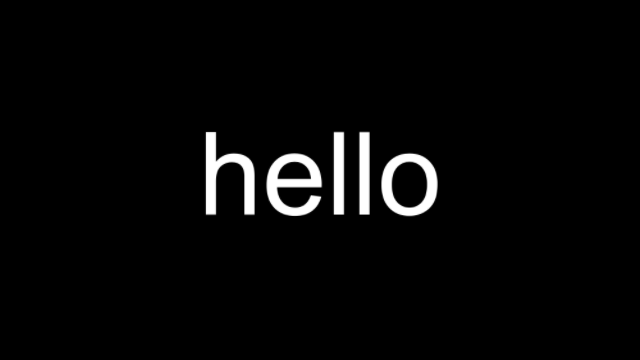
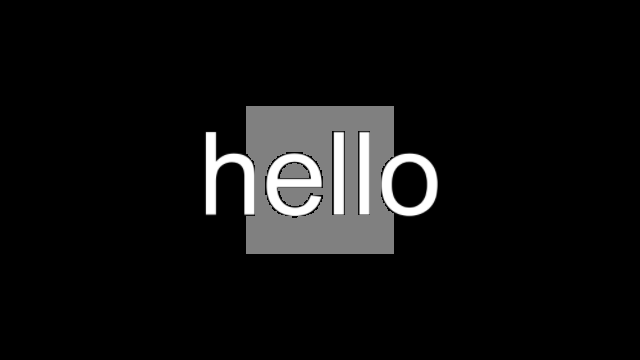
changement

Changed region(s): [[0.375, 0.275, 0.625, 0.7028]]

diff --git a/js/patch.js b/js/patch.js
@@ -42,4 +42,4 @@ window.vec3 = glMatrix.vec3;
 window.vec4 = glMatrix.vec4;
 
 var CABLES = CABLES || {}; CABLES.build = {"timestamp":1642088436991,"created":"2022-01-13T15:40:36.991Z","git":{"branch":"master","commit":"c537af9dc816369192a4c7405dc4d949add1219c","date":null,"message":null}};
-if(!CABLES.exportedPatches)CABLES.exportedPatches={};CABLES.exportedPatches["7AOH-W"]={settings:{opExample:[],licence:"none",isPublic:false},ops:[{objName:"Ops.Gl.MainLoop",id:"0",uiAttribs:{subPatch:0},portsIn:[{name:"FPS Limit",value:0},{name:"Reduce FPS not focussed",value:true},{name:"Reduce FPS loading",value:0},{name:"Clear",value:true},{name:"ClearAlpha",value:true},{name:"Fullscreen Button",value:false},{name:"Active",value:true},{name:"Hires Displays",value:false}],portsOut:[{name:"trigger",links:[{portIn:"Render",portOut:"trigger",objIn:"1",objOut:"0"}]},{name:"width",value:640},{name:"height",value:360}]},{objName:"Ops.Gl.Meshes.TextMesh_v2",id:"1",uiAttribs:{subPatch:0},portsIn:[{name:"Render"},{name:"Text",value:"hello"},{name:"Scale",value:1},{name:"Font",value:"Arial"},{name:"align index",value:1},{name:"align",value:"center"},{name:"vertical align index",value:1},{name:"vertical align",value:"Middle"},{name:"Line Height",value:1},{name:"Letter Spacing",value:0},{name:"filter index",value:2},{name:"filter",value:"mipmap"},{name:"Anisotropic index",value:0},{name:"Anisotropic",value:0},{name:"Texture Color",value:0},{name:"Texture Mask",value:0},{name:"r",value:1},{name:"g",value:1},{name:"b",value:1},{name:"a",value:1}],portsOut:[{name:"Next",value:0},{name:"texture"},{name:"Total Lines",value:1},{name:"Width",value:.7545689174107144},{name:"Font Available",value:0}]}],users:[],userOps:[],tags:[],_id:"61fbd2bafa64cf2d63796897",name:"new project",userId:"61f8f81ca0b3c4211425436c",created:"2022-02-03T13:03:54.311Z",updated:"2022-02-03T13:09:08.272Z",log:[],__v:1,shortId:"7AOH-W",buildInfo:{ui:{timestamp:1642093519649,created:"2022-01-13T17:05:19.649Z",git:{branch:"master",commit:"4915a0a526ca85fa926ed6750446328f8fc1e649",date:"2021-11-30T10:48:51.000Z",message:"icons"}},host:"cables.gl"},opsHash:"236f363fd28201cbfb391b2ab2801d6705411562",ui:{timeLineLength:20,bookmarks:[],viewBoxesGl:{0:{x:-314.8462435561811,y:-36.49987041884958,z:399.95335078585146}},renderer:{w:640,h:360,s:1}},updatedByUser:"diocro",exports:1};if(!CABLES.exportedPatch){CABLES.exportedPatch=CABLES.exportedPatches["7AOH-W"]}"use strict";var CABLES=CABLES||{};CABLES.OPS=CABLES.OPS||{};var Ops=Ops||{};Ops.Gl=Ops.Gl||{};Ops.Gl.Meshes=Ops.Gl.Meshes||{};Ops.Gl.MainLoop=function(){CABLES.Op.apply(this,arguments);const a=this;const e={};const t=a.inValue("FPS Limit",0);const n=a.outTrigger("trigger");const r=a.outValue("width");const i=a.outValue("height");const s=a.inValueBool("Reduce FPS not focussed",true);const o=a.inValueBool("Reduce FPS loading");const l=a.inValueBool("Clear",true);const c=a.inValueBool("ClearAlpha",true);const u=a.inValueBool("Fullscreen Button",false);const f=a.inValueBool("Active",true);const d=a.inValueBool("Hires Displays",false);a.onAnimFrame=S;d.onChange=function(){if(d.get())a.patch.cgl.pixelDensity=window.devicePixelRatio;else a.patch.cgl.pixelDensity=1;a.patch.cgl.updateSize();if(CABLES.UI)gui.setLayout()};f.onChange=function(){a.patch.removeOnAnimFrame(a);if(f.get()){a.setUiAttrib({extendTitle:""});a.onAnimFrame=S;a.patch.addOnAnimFrame(a);a.log("adding again!")}else{a.setUiAttrib({extendTitle:"Inactive"})}};const g=a.patch.cgl;let p=0;let h=0;if(!a.patch.cgl)a.uiAttr({error:"No webgl cgl context"});const x=vec3.create();vec3.set(x,0,0,0);const v=vec3.create();vec3.set(v,0,0,-2);u.onChange=T;setTimeout(T,100);let m=null;let C=true;let L=true;window.addEventListener("blur",()=>{C=false});window.addEventListener("focus",()=>{C=true});document.addEventListener("visibilitychange",()=>{L=!document.hidden});function M(){if(o.get()&&a.patch.loading.getProgress()<1)return 5;if(s.get()){if(!L)return 10;if(!C)return 30}return t.get()}function T(){function e(){if(m)m.style.display="block"}function t(){if(m)m.style.display="none"}a.patch.cgl.canvas.addEventListener("mouseleave",t);a.patch.cgl.canvas.addEventListener("mouseenter",e);if(u.get()){if(!m){m=document.createElement("div");const n=a.patch.cgl.canvas.parentElement;if(n)n.appendChild(m);m.addEventListener("mouseenter",e);m.addEventListener("click",function(e){if(CABLES.UI&&!e.shiftKey)gui.cycleFullscreen();else g.fullScreen()})}m.style.padding="10px";m.style.position="absolute";m.style.right="5px";m.style.top="5px";m.style.width="20px";m.style.height="20px";m.style.cursor="pointer";m.style["border-radius"]="40px";m.style.background="#444";m.style["z-index"]="9999";m.style.display="none";m.innerHTML='<svg xmlns="http://www.w3.org/2000/svg" xmlns:xlink="http://www.w3.org/1999/xlink" version="1.1" id="Capa_1" x="0px" y="0px" viewBox="0 0 490 490" style="width:20px;height:20px;" xml:space="preserve" width="512px" height="512px"><g><path d="M173.792,301.792L21.333,454.251v-80.917c0-5.891-4.776-10.667-10.667-10.667C4.776,362.667,0,367.442,0,373.333V480     c0,5.891,4.776,10.667,10.667,10.667h106.667c5.891,0,10.667-4.776,10.667-10.667s-4.776-10.667-10.667-10.667H36.416     l152.459-152.459c4.093-4.237,3.975-10.99-0.262-15.083C184.479,297.799,177.926,297.799,173.792,301.792z" fill="#FFFFFF"/><path d="M480,0H373.333c-5.891,0-10.667,4.776-10.667,10.667c0,5.891,4.776,10.667,10.667,10.667h80.917L301.792,173.792     c-4.237,4.093-4.354,10.845-0.262,15.083c4.093,4.237,10.845,4.354,15.083,0.262c0.089-0.086,0.176-0.173,0.262-0.262     L469.333,36.416v80.917c0,5.891,4.776,10.667,10.667,10.667s10.667-4.776,10.667-10.667V10.667C490.667,4.776,485.891,0,480,0z" fill="#FFFFFF"/><path d="M36.416,21.333h80.917c5.891,0,10.667-4.776,10.667-10.667C128,4.776,123.224,0,117.333,0H10.667     C4.776,0,0,4.776,0,10.667v106.667C0,123.224,4.776,128,10.667,128c5.891,0,10.667-4.776,10.667-10.667V36.416l152.459,152.459     c4.237,4.093,10.99,3.975,15.083-0.262c3.992-4.134,3.992-10.687,0-14.82L36.416,21.333z" fill="#FFFFFF"/><path d="M480,362.667c-5.891,0-10.667,4.776-10.667,10.667v80.917L316.875,301.792c-4.237-4.093-10.99-3.976-15.083,0.261     c-3.993,4.134-3.993,10.688,0,14.821l152.459,152.459h-80.917c-5.891,0-10.667,4.776-10.667,10.667s4.776,10.667,10.667,10.667     H480c5.891,0,10.667-4.776,10.667-10.667V373.333C490.667,367.442,485.891,362.667,480,362.667z" fill="#FFFFFF"/></g></svg>'}else{if(m){m.style.display="none";m.remove();m=null}}}a.onDelete=function(){g.gl.clearColor(0,0,0,0);g.gl.clear(g.gl.COLOR_BUFFER_BIT|g.gl.DEPTH_BUFFER_BIT)};function S(e){if(!f.get())return;if(g.aborted||g.canvas.clientWidth===0||g.canvas.clientHeight===0)return;const t=performance.now();a.patch.config.fpsLimit=M();if(g.canvasWidth==-1){g.setCanvas(a.patch.config.glCanvasId);return}if(g.canvasWidth!=r.get()||g.canvasHeight!=i.get()){r.set(g.canvasWidth);i.set(g.canvasHeight)}if(CABLES.now()-h>1e3){CGL.fpsReport=CGL.fpsReport||[];if(a.patch.loading.getProgress()>=1&&h!==0)CGL.fpsReport.push(p);p=0;h=CABLES.now()}CGL.MESH.lastShader=null;CGL.MESH.lastMesh=null;g.renderStart(g,x,v);if(l.get()){g.gl.clearColor(0,0,0,1);g.gl.clear(g.gl.COLOR_BUFFER_BIT|g.gl.DEPTH_BUFFER_BIT)}n.trigger();if(CGL.MESH.lastMesh)CGL.MESH.lastMesh.unBind();if(CGL.Texture.previewTexture){if(!CGL.Texture.texturePreviewer)CGL.Texture.texturePreviewer=new CGL.Texture.texturePreview(g);CGL.Texture.texturePreviewer.render(CGL.Texture.previewTexture)}g.renderEnd(g);if(c.get()){g.gl.clearColor(1,1,1,1);g.gl.colorMask(false,false,false,true);g.gl.clear(g.gl.COLOR_BUFFER_BIT);g.gl.colorMask(true,true,true,true)}if(!g.frameStore.phong)g.frameStore.phong={};p++;a.patch.cgl.profileData.profileMainloopMs=performance.now()-t}};Ops.Gl.MainLoop.prototype=new CABLES.Op;CABLES.OPS["b0472a1d-db16-4ba6-8787-f300fbdc77bb"]={f:Ops.Gl.MainLoop,objName:"Ops.Gl.MainLoop"};Ops.Gl.Meshes.TextMesh_v2=function(){CABLES.Op.apply(this,arguments);const t=this;const e={textmesh_frag:"UNI sampler2D tex;\n#ifdef DO_MULTEX\n    UNI sampler2D texMul;\n#endif\n#ifdef DO_MULTEX_MASK\n    UNI sampler2D texMulMask;\n#endif\nIN vec2 texCoord;\nIN vec2 texPos;\nUNI float r;\nUNI float g;\nUNI float b;\nUNI float a;\n\nvoid main()\n{\n   vec4 col=texture(tex,texCoord);\n   col.a=col.r;\n   col.r*=r;\n   col.g*=g;\n   col.b*=b;\n   col*=a;\n   if(col.a==0.0)discard;\n\n\n    #ifdef DO_MULTEX\n        col*=texture(texMul,texPos);\n    #endif\n\n    #ifdef DO_MULTEX_MASK\n        col*=texture(texMulMask,texPos).r;\n    #endif\n\n\n\n   outColor=col;\n}",textmesh_vert:"UNI sampler2D tex;\nUNI mat4 projMatrix;\nUNI mat4 modelMatrix;\nUNI mat4 viewMatrix;\nUNI float scale;\nIN vec3 vPosition;\nIN vec2 attrTexCoord;\nIN mat4 instMat;\nIN vec2 attrTexOffsets;\nIN vec2 attrTexSize;\nIN vec2 attrTexPos;\nOUT vec2 texPos;\n\nOUT vec2 texCoord;\n\nvoid main()\n{\n   texCoord=(attrTexCoord*(attrTexSize)) + attrTexOffsets;\n   mat4 instMVMat=instMat;\n   instMVMat[3][0]*=scale;\n\n   texPos=attrTexPos;\n\n   vec4 vert=vec4( vPosition.x*(attrTexSize.x/attrTexSize.y)*scale,vPosition.y*scale,vPosition.z*scale, 1. );\n\n   mat4 mvMatrix=viewMatrix * modelMatrix * instMVMat;\n\n   #ifndef BILLBOARD\n       gl_Position = projMatrix * mvMatrix * vert;\n   #endif\n}\n"};const n=t.inTrigger("Render"),m=t.inString("Text","cables"),a=t.inValueFloat("Scale",1),f=t.inString("Font","Arial"),C=t.inValueSelect("align",["left","center","right"],"center"),r=t.inValueSelect("vertical align",["Top","Middle","Bottom"],"Middle"),L=t.inValueFloat("Line Height",1),M=t.inValueFloat("Letter Spacing"),o=t.inSwitch("filter",["nearest","linear","mipmap"],"mipmap"),l=t.inSwitch("Anisotropic",[0,1,2,4,8,16],0),i=t.inTexture("Texture Color"),s=t.inTexture("Texture Mask"),c=t.outTrigger("Next"),T=t.outTexture("texture"),S=t.outNumber("Total Lines",0),A=t.outNumber("Width",0),u=t.outValue("Font Available",0);const E=t.patch.cgl;t.setPortGroup("Masking",[i,s]);const d=1024;let g=false;let p=true;C.onChange=m.onChange=L.onChange=h;function h(){p=true}let x=null;CABLES.OpTextureMeshCanvas={};let v=0;const w=null;let F=null;let B=true;let b=true;l.onChange=o.onChange=()=>{y().texture=null;b=true};s.onChange=i.onChange=function(){P.toggleDefine("DO_MULTEX",i.get());P.toggleDefine("DO_MULTEX_MASK",s.get())};T.set(null);f.onChange=function(){b=true;B=true;O()};t.patch.on("fontLoaded",e=>{if(e==f.get()){b=true;B=true}});function O(){const e=g;try{g=document.fonts.check('20px "'+f.get()+'"')}catch(e){t.error(e)}if(!e&&g){u.set(true);b=true;B=true}if(!g)setTimeout(O,250)}r.onChange=function(){if(r.get()=="Middle")v=0;else if(r.get()=="Top")v=1;else if(r.get()=="Bottom")v=2};function y(){x=""+f.get();if(CABLES.OpTextureMeshCanvas.hasOwnProperty(x))return CABLES.OpTextureMeshCanvas[x];const e=document.createElement("canvas");e.dataset.font=f.get();e.id="texturetext_"+CABLES.generateUUID();e.style.display="none";const t=document.getElementsByTagName("body")[0];t.appendChild(e);const n=e.getContext("2d");CABLES.OpTextureMeshCanvas[x]={ctx:n,canvas:e,chars:{},characters:"",fontSize:320};return CABLES.OpTextureMeshCanvas[x]}t.onDelete=function(){if(x&&CABLES.OpTextureMeshCanvas[x])CABLES.OpTextureMeshCanvas[x].canvas.remove()};var P=new CGL.Shader(E,"TextMesh");P.setSource(e.textmesh_vert,e.textmesh_frag);const G=new CGL.Uniform(P,"t","tex",0);const I=new CGL.Uniform(P,"t","texMul",1);const U=new CGL.Uniform(P,"t","texMulMask",2);const _=new CGL.Uniform(P,"f","scale",a);const N=t.inValueSlider("r",1),H=t.inValueSlider("g",1),R=t.inValueSlider("b",1),V=t.inValueSlider("a",1),D=new CGL.Uniform(P,"f","r",N),k=new CGL.Uniform(P,"f","g",H),z=new CGL.Uniform(P,"f","b",R),W=new CGL.Uniform(P,"f","a",V);N.setUiAttribs({colorPick:true});t.setPortGroup("Display",[a,f]);t.setPortGroup("Alignment",[C,r]);t.setPortGroup("Color",[N,H,R,V]);let j=0;const X=vec3.create();let K=-1;let Z=false;n.onTriggered=function(){if(p){Y();p=false}const e=y();if(e.lastChange!=K){B=true;K=e.lastChange}if(b)J();if(B)Y();if(F&&F.numInstances>0){E.pushBlendMode(CGL.BLEND_NORMAL,true);E.setShader(P);E.setTexture(0,T.get().tex);const t=i.get();if(t)E.setTexture(1,t.tex);const n=s.get();if(n)E.setTexture(2,n.tex);if(v===2)vec3.set(X,0,j,0);else if(v===1)vec3.set(X,0,0,0);else if(v===0)vec3.set(X,0,j/2,0);X[1]-=L.get();E.pushModelMatrix();mat4.translate(E.mMatrix,E.mMatrix,X);if(!Z)F.render(E.getShader());E.popModelMatrix();E.setTexture(0,null);E.setPreviousShader();E.popBlendMode()}c.trigger()};M.onChange=function(){B=true};function Y(){const e=String(m.get()+"");if(!T.get())return;const r=y();if(!r.geom){r.geom=new CGL.Geometry("textmesh");r.geom.vertices=[1,1,0,0,1,0,1,0,0,0,0,0];r.geom.texCoords=new Float32Array([1,1,0,1,1,0,0,0]);r.geom.verticesIndices=[0,1,2,2,1,3]}if(!F)F=new CGL.Mesh(E,r.geom);const i=e.split("\n");S.set(i.length);const s=[];const o=[];const l=[];const c=[];let u=0;b=false;const f=mat4.create();let d=0;for(let a=0;a<i.length;a++){const p=i[a];const h=p.length;let e=0;let t=0;let n=0;for(var g=0;g<h;g++){const x=p.substring(g,g+1);const v=r.chars[String(x)];if(v){n+=v.texCoordWidth/v.texCoordHeight;n+=M.get()}}n-=M.get();j=0;if(C.get()=="left")t=0;else if(C.get()=="right")t=n;else if(C.get()=="center")t=n/2;j=(a+1)*L.get();for(var g=0;g<h;g++){const x=p.substring(g,g+1);const v=r.chars[String(x)];if(!v){b=true;return}else{c.push(e/n*.99+.005,(1-a/(i.length-1))*.99+.005);o.push(v.texCoordX,1-v.texCoordY-v.texCoordHeight);l.push(v.texCoordWidth,v.texCoordHeight);mat4.identity(f);mat4.translate(f,f,[e-t,0-a*L.get(),0]);e+=v.texCoordWidth/v.texCoordHeight+M.get();d=Math.max(d,e-t);s.push(Array.prototype.slice.call(f));u++}}}const t=[].concat.apply([],s);Z=false;if(t.length==0)Z=true;F.numInstances=t.length/16;if(F.numInstances==0){Z=true;return}A.set(d*a.get());F.setAttribute("instMat",new Float32Array(t),16,{instanced:true});F.setAttribute("attrTexOffsets",new Float32Array(o),2,{instanced:true});F.setAttribute("attrTexSize",new Float32Array(l),2,{instanced:true});F.setAttribute("attrTexPos",new Float32Array(c),2,{instanced:true});B=false;if(b)J()}function q(e,t){const n=y();if(!t)n.chars={};const a=n.ctx;a.font=e+"px "+f.get();a.textAlign="left";var r=0,i=0;let s=0;const o=e*1.4;const l={fits:true};for(var i=0;i<n.characters.length;i++){const c=String(n.characters.substring(i,i+1));const u=a.measureText(c).width;if(s+u>=d){r+=o+2;s=0}if(!t){n.chars[c]={str:c,texCoordX:s/d,texCoordY:r/d,texCoordWidth:u/d,texCoordHeight:o/d};a.fillText(c,s,r+e)}s+=u+12}if(r>d-o){l.fits=false}l.spaceLeft=d-r;return l}function J(){let e=CGL.Texture.FILTER_LINEAR;if(o.get()=="nearest")e=CGL.Texture.FILTER_NEAREST;if(o.get()=="mipmap")e=CGL.Texture.FILTER_MIPMAP;const t=y();let n=String(m.get());if(n==null||n==undefined)n="";for(let e=0;e<n.length;e++){const s=n.substring(e,e+1);if(t.characters.indexOf(s)==-1){t.characters+=s;b=true}}const a=t.ctx;t.canvas.width=t.canvas.height=d;if(!t.texture)t.texture=CGL.Texture.createFromImage(E,t.canvas,{filter:e,anisotropic:parseFloat(l.get())});t.texture.setSize(d,d);a.fillStyle="transparent";a.clearRect(0,0,d,d);a.fillStyle="rgba(255,255,255,255)";let r=t.fontSize+40;let i=q(r,true);while(!i.fits){r-=5;i=q(r,true)}q(r,false);a.restore();t.texture.initTexture(t.canvas,e);t.texture.unpackAlpha=true;T.set(t.texture);t.lastChange=CABLES.now();B=true;b=false}};Ops.Gl.Meshes.TextMesh_v2.prototype=new CABLES.Op;CABLES.OPS["2390f6b3-2122-412e-8c8d-5c2f574e8bd1"]={f:Ops.Gl.Meshes.TextMesh_v2,objName:"Ops.Gl.Meshes.TextMesh_v2"};window.addEventListener("load",function(e){CABLES.jsLoaded=new Event("CABLES.jsLoaded");document.dispatchEvent(CABLES.jsLoaded)});
+if(!CABLES.exportedPatches)CABLES.exportedPatches={};CABLES.exportedPatches["7AOH-W"]={settings:{opExample:[],licence:"none",isPublic:false},ops:[{objName:"Ops.Gl.MainLoop",id:"0",uiAttribs:{subPatch:0},portsIn:[{name:"FPS Limit",value:0},{name:"Reduce FPS not focussed",value:true},{name:"Reduce FPS loading",value:false},{name:"Clear",value:true},{name:"ClearAlpha",value:true},{name:"Fullscreen Button",value:false},{name:"Active",value:true},{name:"Hires Displays",value:false}],portsOut:[{name:"trigger",links:[{portIn:"Render",portOut:"trigger",objIn:"3",objOut:"0"},{portIn:"render",portOut:"trigger",objIn:"2",objOut:"0"}]},{name:"width",value:640},{name:"height",value:360}]},{objName:"Ops.Gl.Meshes.Cube_v2",id:"1",uiAttribs:{subPatch:0},portsIn:[{name:"Render"},{name:"Render Mesh",value:true},{name:"Width",value:1},{name:"Length",value:1},{name:"Height",value:1},{name:"Center",value:true},{name:"Mapping index",value:0},{name:"Mapping",value:"Side"},{name:"Bias",value:0},{name:"Flip X",value:true},{name:"Top",value:true},{name:"Bottom",value:true},{name:"Left",value:true},{name:"Right",value:true},{name:"Front",value:true},{name:"Back",value:true}],portsOut:[{name:"Next",value:0},{name:"geometry"}]},{objName:"Ops.Gl.Matrix.Translate",id:"2",uiAttribs:{subPatch:0},portsIn:[{name:"render"},{name:"x",value:0},{name:"y",value:0},{name:"z",value:-.68}],portsOut:[{name:"trigger",links:[{portIn:"Render",portOut:"trigger",objIn:"1",objOut:"2"}]}]},{objName:"Ops.Gl.Meshes.TextMesh_v2",id:"3",uiAttribs:{subPatch:0},portsIn:[{name:"Render"},{name:"Text",value:"hello"},{name:"Scale",value:1},{name:"Font",value:"Arial"},{name:"align index",value:1},{name:"align",value:"center"},{name:"vertical align index",value:1},{name:"vertical align",value:"Middle"},{name:"Line Height",value:1},{name:"Letter Spacing",value:0},{name:"filter index",value:2},{name:"filter",value:"mipmap"},{name:"Anisotropic index",value:0},{name:"Anisotropic",value:0},{name:"Texture Color",value:0},{name:"Texture Mask",value:0},{name:"r",value:1},{name:"g",value:1},{name:"b",value:1},{name:"a",value:1}],portsOut:[{name:"Next",value:0},{name:"texture"},{name:"Total Lines",value:1},{name:"Width",value:.7545689174107144},{name:"Font Available",value:0}]}],users:[],userOps:[],tags:[],_id:"61fbd2bafa64cf2d63796897",name:"new project",userId:"61f8f81ca0b3c4211425436c",created:"2022-02-03T13:03:54.311Z",updated:"2022-02-03T14:26:38.778Z",log:[],__v:4,shortId:"7AOH-W",buildInfo:{ui:{timestamp:1642093519649,created:"2022-01-13T17:05:19.649Z",git:{branch:"master",commit:"4915a0a526ca85fa926ed6750446328f8fc1e649",date:"2021-11-30T10:48:51.000Z",message:"icons"}},host:"cables.gl"},opsHash:"53f6c07cac8e8de7c71d01cfa0ecdcd9c0403fe7",ui:{timeLineLength:20,bookmarks:[],viewBoxesGl:{0:{x:-547,y:-266.4797507788162,z:400}},renderer:{w:640,h:360,s:1}},updatedByUser:"diocro",deployments:{lastDeployment:{date:1643893786286,service:"download"}},exports:2,views:0,cachedUsername:"diocro",statsAdmin:{filenameScreenshots:["_screenshots/screenshot.png","_screenshots/screenshot_1643893748513.png","_screenshots/screenshot_1643895329660.png","_screenshots/screenshot_converted.jpg","_screenshots/screenshot_converted.webp"],filenameExports:["_exports/cables_new_project1.zip"],filenameAssets:["LTe50252.ttf"],hasOldScreenshots:false,hasOldExports:false,sizeScreenshots:32.228515625,sizeExports:97.8193359375,sizeAssets:60.625}};if(!CABLES.exportedPatch){CABLES.exportedPatch=CABLES.exportedPatches["7AOH-W"]}"use strict";var CABLES=CABLES||{};CABLES.OPS=CABLES.OPS||{};var Ops=Ops||{};Ops.Gl=Ops.Gl||{};Ops.Gl.Matrix=Ops.Gl.Matrix||{};Ops.Gl.Meshes=Ops.Gl.Meshes||{};Ops.Gl.MainLoop=function(){CABLES.Op.apply(this,arguments);const a=this;const e={};const t=a.inValue("FPS Limit",0);const n=a.outTrigger("trigger");const r=a.outValue("width");const s=a.outValue("height");const i=a.inValueBool("Reduce FPS not focussed",true);const o=a.inValueBool("Reduce FPS loading");const l=a.inValueBool("Clear",true);const c=a.inValueBool("ClearAlpha",true);const u=a.inValueBool("Fullscreen Button",false);const g=a.inValueBool("Active",true);const d=a.inValueBool("Hires Displays",false);a.onAnimFrame=S;d.onChange=function(){if(d.get())a.patch.cgl.pixelDensity=window.devicePixelRatio;else a.patch.cgl.pixelDensity=1;a.patch.cgl.updateSize();if(CABLES.UI)gui.setLayout()};g.onChange=function(){a.patch.removeOnAnimFrame(a);if(g.get()){a.setUiAttrib({extendTitle:""});a.onAnimFrame=S;a.patch.addOnAnimFrame(a);a.log("adding again!")}else{a.setUiAttrib({extendTitle:"Inactive"})}};const p=a.patch.cgl;let f=0;let h=0;if(!a.patch.cgl)a.uiAttr({error:"No webgl cgl context"});const x=vec3.create();vec3.set(x,0,0,0);const m=vec3.create();vec3.set(m,0,0,-2);u.onChange=T;setTimeout(T,100);let v=null;let C=true;let L=true;window.addEventListener("blur",()=>{C=false});window.addEventListener("focus",()=>{C=true});document.addEventListener("visibilitychange",()=>{L=!document.hidden});function M(){if(o.get()&&a.patch.loading.getProgress()<1)return 5;if(i.get()){if(!L)return 10;if(!C)return 30}return t.get()}function T(){function e(){if(v)v.style.display="block"}function t(){if(v)v.style.display="none"}a.patch.cgl.canvas.addEventListener("mouseleave",t);a.patch.cgl.canvas.addEventListener("mouseenter",e);if(u.get()){if(!v){v=document.createElement("div");const n=a.patch.cgl.canvas.parentElement;if(n)n.appendChild(v);v.addEventListener("mouseenter",e);v.addEventListener("click",function(e){if(CABLES.UI&&!e.shiftKey)gui.cycleFullscreen();else p.fullScreen()})}v.style.padding="10px";v.style.position="absolute";v.style.right="5px";v.style.top="5px";v.style.width="20px";v.style.height="20px";v.style.cursor="pointer";v.style["border-radius"]="40px";v.style.background="#444";v.style["z-index"]="9999";v.style.display="none";v.innerHTML='<svg xmlns="http://www.w3.org/2000/svg" xmlns:xlink="http://www.w3.org/1999/xlink" version="1.1" id="Capa_1" x="0px" y="0px" viewBox="0 0 490 490" style="width:20px;height:20px;" xml:space="preserve" width="512px" height="512px"><g><path d="M173.792,301.792L21.333,454.251v-80.917c0-5.891-4.776-10.667-10.667-10.667C4.776,362.667,0,367.442,0,373.333V480     c0,5.891,4.776,10.667,10.667,10.667h106.667c5.891,0,10.667-4.776,10.667-10.667s-4.776-10.667-10.667-10.667H36.416     l152.459-152.459c4.093-4.237,3.975-10.99-0.262-15.083C184.479,297.799,177.926,297.799,173.792,301.792z" fill="#FFFFFF"/><path d="M480,0H373.333c-5.891,0-10.667,4.776-10.667,10.667c0,5.891,4.776,10.667,10.667,10.667h80.917L301.792,173.792     c-4.237,4.093-4.354,10.845-0.262,15.083c4.093,4.237,10.845,4.354,15.083,0.262c0.089-0.086,0.176-0.173,0.262-0.262     L469.333,36.416v80.917c0,5.891,4.776,10.667,10.667,10.667s10.667-4.776,10.667-10.667V10.667C490.667,4.776,485.891,0,480,0z" fill="#FFFFFF"/><path d="M36.416,21.333h80.917c5.891,0,10.667-4.776,10.667-10.667C128,4.776,123.224,0,117.333,0H10.667     C4.776,0,0,4.776,0,10.667v106.667C0,123.224,4.776,128,10.667,128c5.891,0,10.667-4.776,10.667-10.667V36.416l152.459,152.459     c4.237,4.093,10.99,3.975,15.083-0.262c3.992-4.134,3.992-10.687,0-14.82L36.416,21.333z" fill="#FFFFFF"/><path d="M480,362.667c-5.891,0-10.667,4.776-10.667,10.667v80.917L316.875,301.792c-4.237-4.093-10.99-3.976-15.083,0.261     c-3.993,4.134-3.993,10.688,0,14.821l152.459,152.459h-80.917c-5.891,0-10.667,4.776-10.667,10.667s4.776,10.667,10.667,10.667     H480c5.891,0,10.667-4.776,10.667-10.667V373.333C490.667,367.442,485.891,362.667,480,362.667z" fill="#FFFFFF"/></g></svg>'}else{if(v){v.style.display="none";v.remove();v=null}}}a.onDelete=function(){p.gl.clearColor(0,0,0,0);p.gl.clear(p.gl.COLOR_BUFFER_BIT|p.gl.DEPTH_BUFFER_BIT)};function S(e){if(!g.get())return;if(p.aborted||p.canvas.clientWidth===0||p.canvas.clientHeight===0)return;const t=performance.now();a.patch.config.fpsLimit=M();if(p.canvasWidth==-1){p.setCanvas(a.patch.config.glCanvasId);return}if(p.canvasWidth!=r.get()||p.canvasHeight!=s.get()){r.set(p.canvasWidth);s.set(p.canvasHeight)}if(CABLES.now()-h>1e3){CGL.fpsReport=CGL.fpsReport||[];if(a.patch.loading.getProgress()>=1&&h!==0)CGL.fpsReport.push(f);f=0;h=CABLES.now()}CGL.MESH.lastShader=null;CGL.MESH.lastMesh=null;p.renderStart(p,x,m);if(l.get()){p.gl.clearColor(0,0,0,1);p.gl.clear(p.gl.COLOR_BUFFER_BIT|p.gl.DEPTH_BUFFER_BIT)}n.trigger();if(CGL.MESH.lastMesh)CGL.MESH.lastMesh.unBind();if(CGL.Texture.previewTexture){if(!CGL.Texture.texturePreviewer)CGL.Texture.texturePreviewer=new CGL.Texture.texturePreview(p);CGL.Texture.texturePreviewer.render(CGL.Texture.previewTexture)}p.renderEnd(p);if(c.get()){p.gl.clearColor(1,1,1,1);p.gl.colorMask(false,false,false,true);p.gl.clear(p.gl.COLOR_BUFFER_BIT);p.gl.colorMask(true,true,true,true)}if(!p.frameStore.phong)p.frameStore.phong={};f++;a.patch.cgl.profileData.profileMainloopMs=performance.now()-t}};Ops.Gl.MainLoop.prototype=new CABLES.Op;CABLES.OPS["b0472a1d-db16-4ba6-8787-f300fbdc77bb"]={f:Ops.Gl.MainLoop,objName:"Ops.Gl.MainLoop"};Ops.Gl.Meshes.Cube_v2=function(){CABLES.Op.apply(this,arguments);const e=this;const t={};const n=e.inTrigger("Render"),a=e.inValueBool("Render Mesh",true),i=e.inValue("Width",1),o=e.inValue("Length",1),l=e.inValue("Height",1),c=e.inValueBool("Center",true),u=e.inSwitch("Mapping",["Side","Cube +-"],"Side"),d=e.inValue("Bias",0),p=e.inValueBool("Flip X",true),g=e.inValueBool("Top",true),f=e.inValueBool("Bottom",true),h=e.inValueBool("Left",true),x=e.inValueBool("Right",true),m=e.inValueBool("Front",true),v=e.inValueBool("Back",true),r=e.outTrigger("Next"),C=e.outObject("geometry",null,"geometry");const L=e.patch.cgl;e.toWorkPortsNeedToBeLinked(n);e.setPortGroup("Mapping",[u,d,p]);e.setPortGroup("Geometry",[i,l,o,c]);e.setPortGroup("Sides",[g,f,h,x,m,v]);let M=null,T=null,S=true,A=true;d.onChange=p.onChange=g.onChange=f.onChange=h.onChange=x.onChange=m.onChange=v.onChange=u.onChange=i.onChange=l.onChange=o.onChange=c.onChange=s;function s(){A=true}n.onLinkChanged=function(){if(!n.isLinked()){C.set(null);return}b()};n.onTriggered=function(){if(A)b();if(a.get()&&T&&S)T.render(L.getShader());r.trigger()};e.preRender=function(){b();T.render(L.getShader())};function b(){if(!M)M=new CGL.Geometry("cubemesh");M.clear();let e=i.get();let t=-1*i.get();let n=l.get();let a=-1*l.get();let r=o.get();let s=-1*o.get();if(!c.get()){t=0;a=0;s=0}else{e*=.5;t*=.5;n*=.5;a*=.5;r*=.5;s*=.5}if(u.get()=="Side")O(M,e,n,r,t,a,s);else B(M,e,n,r,t,a,s);M.verticesIndices=[];if(g.get())M.verticesIndices.push(8,9,10,8,10,11);if(f.get())M.verticesIndices.push(12,13,14,12,14,15);if(h.get())M.verticesIndices.push(20,21,22,20,22,23);if(x.get())M.verticesIndices.push(16,17,18,16,18,19);if(v.get())M.verticesIndices.push(4,5,6,4,6,7);if(m.get())M.verticesIndices.push(0,1,2,0,2,3);if(M.verticesIndices.length===0)S=false;else S=true;if(T)T.dispose();T=new CGL.Mesh(L,M);C.set(null);C.set(M);A=false}e.onDelete=function(){if(T)T.dispose()};function O(e,t,n,a,r,s,i){e.vertices=[r,s,a,t,s,a,t,n,a,r,n,a,r,s,i,r,n,i,t,n,i,t,s,i,r,n,i,r,n,a,t,n,a,t,n,i,r,s,i,t,s,i,t,s,a,r,s,a,t,s,i,t,n,i,t,n,a,t,s,a,r,s,i,r,s,a,r,n,a,r,n,i];const o=d.get();let l=1;let c=0;if(p.get()){l=0;c=1}e.setTexCoords([c+o,1-o,l-o,1-o,l-o,0+o,c+o,0+o,l-o,1-o,l-o,0+o,c+o,0+o,c+o,1-o,c+o,0+o,c+o,1-o,l-o,1-o,l-o,0+o,l-o,0+o,c+o,0+o,c+o,1-o,l-o,1-o,l-o,1-o,l-o,0+o,c+o,0+o,c+o,1-o,c+o,1-o,l-o,1-o,l-o,0+o,c+o,0+o]);e.vertexNormals=new Float32Array([0,0,1,0,0,1,0,0,1,0,0,1,0,0,-1,0,0,-1,0,0,-1,0,0,-1,0,1,0,0,1,0,0,1,0,0,1,0,0,-1,0,0,-1,0,0,-1,0,0,-1,0,1,0,0,1,0,0,1,0,0,1,0,0,-1,0,0,-1,0,0,-1,0,0,-1,0,0]);e.tangents=new Float32Array([-1,0,0,-1,0,0,-1,0,0,-1,0,0,1,0,0,1,0,0,1,0,0,1,0,0,1,0,0,1,0,0,1,0,0,1,0,0,-1,0,0,-1,0,0,-1,0,0,-1,0,0,0,0,-1,0,0,-1,0,0,-1,0,0,-1,0,0,1,0,0,1,0,0,1,0,0,1]);e.biTangents=new Float32Array([0,-1,0,0,-1,0,0,-1,0,0,-1,0,0,1,0,0,1,0,0,1,0,0,1,0,0,0,-1,0,0,-1,0,0,-1,0,0,-1,0,0,1,0,0,1,0,0,1,0,0,1,0,1,0,0,1,0,0,1,0,0,1,0,0,1,0,0,1,0,0,1,0,0,1,0])}function B(e,t,n,a,r,s,i){e.vertices=[r,s,a,t,s,a,t,n,a,r,n,a,r,s,i,r,n,i,t,n,i,t,s,i,r,n,i,r,n,a,t,n,a,t,n,i,r,s,i,t,s,i,t,s,a,r,s,a,t,s,i,t,n,i,t,n,a,t,s,a,r,s,i,r,s,a,r,n,a,r,n,i];const o=.25;const l=1/3;const c=d.get();let u=0;if(p.get())u=1;const g=[];g.push(u+o+c,l*2-c,u+o*2-c,l*2-c,u+o*2-c,l+c,u+o+c,l+c,u+o*4-c,l*2-c,u+o*4-c,l+c,u+o*3+c,l+c,u+o*3+c,l*2-c);if(p.get())g.push(o+c,0-c,o*2-c,0-c,o*2-c,l*1+c,o+c,l*1+c,o+c,l*3+c,o+c,l*2-c,o*2-c,l*2-c,o*2-c,l*3+c);else g.push(o+c,0+c,o+c,l*1-c,o*2-c,l*1-c,o*2-c,0+c,o+c,l*3-c,o*2-c,l*3-c,o*2-c,l*2+c,o+c,l*2+c);g.push(u+o*3-c,1-l-c,u+o*3-c,1-l*2+c,u+o*2+c,1-l*2+c,u+o*2+c,1-l-c,u+o*0+c,1-l-c,u+o*1-c,1-l-c,u+o*1-c,1-l*2+c,u+o*0+c,1-l*2+c);e.setTexCoords(g);e.vertexNormals=[0,0,1,0,0,1,0,0,1,0,0,1,0,0,-1,0,0,-1,0,0,-1,0,0,-1,0,1,0,0,1,0,0,1,0,0,1,0,0,-1,0,0,-1,0,0,-1,0,0,-1,0,1,0,0,1,0,0,1,0,0,1,0,0,-1,0,0,-1,0,0,-1,0,0,-1,0,0];e.tangents=new Float32Array([-1,0,0,-1,0,0,-1,0,0,-1,0,0,1,0,0,1,0,0,1,0,0,1,0,0,1,0,0,1,0,0,1,0,0,1,0,0,-1,0,0,-1,0,0,-1,0,0,-1,0,0,0,0,-1,0,0,-1,0,0,-1,0,0,-1,0,0,1,0,0,1,0,0,1,0,0,1]);e.biTangents=new Float32Array([0,-1,0,0,-1,0,0,-1,0,0,-1,0,0,1,0,0,1,0,0,1,0,0,1,0,0,0,-1,0,0,-1,0,0,-1,0,0,-1,0,0,1,0,0,1,0,0,1,0,0,1,0,1,0,0,1,0,0,1,0,0,1,0,0,1,0,0,1,0,0,1,0,0,1,0])}};Ops.Gl.Meshes.Cube_v2.prototype=new CABLES.Op;CABLES.OPS["37b92ba4-cea5-42ae-bf28-a513ca28549c"]={f:Ops.Gl.Meshes.Cube_v2,objName:"Ops.Gl.Meshes.Cube_v2"};Ops.Gl.Matrix.Translate=function(){CABLES.Op.apply(this,arguments);const e=this;const t={};const n=e.inTrigger("render");const a=e.outTrigger("trigger");const r=e.inValue("x");const s=e.inValue("y");const i=e.inValue("z");const o=e.patch.cgl;let l=vec3.create();n.onTriggered=function(){vec3.set(l,r.get(),s.get(),i.get());o.pushModelMatrix();mat4.translate(o.mMatrix,o.mMatrix,l);a.trigger();o.popModelMatrix()}};Ops.Gl.Matrix.Translate.prototype=new CABLES.Op;CABLES.OPS["1f89ba0e-e7eb-46d7-8c66-7814b7c528b9"]={f:Ops.Gl.Matrix.Translate,objName:"Ops.Gl.Matrix.Translate"};Ops.Gl.Meshes.TextMesh_v2=function(){CABLES.Op.apply(this,arguments);const t=this;const e={textmesh_frag:"UNI sampler2D tex;\n#ifdef DO_MULTEX\n    UNI sampler2D texMul;\n#endif\n#ifdef DO_MULTEX_MASK\n    UNI sampler2D texMulMask;\n#endif\nIN vec2 texCoord;\nIN vec2 texPos;\nUNI float r;\nUNI float g;\nUNI float b;\nUNI float a;\n\nvoid main()\n{\n   vec4 col=texture(tex,texCoord);\n   col.a=col.r;\n   col.r*=r;\n   col.g*=g;\n   col.b*=b;\n   col*=a;\n   if(col.a==0.0)discard;\n\n\n    #ifdef DO_MULTEX\n        col*=texture(texMul,texPos);\n    #endif\n\n    #ifdef DO_MULTEX_MASK\n        col*=texture(texMulMask,texPos).r;\n    #endif\n\n\n\n   outColor=col;\n}",textmesh_vert:"UNI sampler2D tex;\nUNI mat4 projMatrix;\nUNI mat4 modelMatrix;\nUNI mat4 viewMatrix;\nUNI float scale;\nIN vec3 vPosition;\nIN vec2 attrTexCoord;\nIN mat4 instMat;\nIN vec2 attrTexOffsets;\nIN vec2 attrTexSize;\nIN vec2 attrTexPos;\nOUT vec2 texPos;\n\nOUT vec2 texCoord;\n\nvoid main()\n{\n   texCoord=(attrTexCoord*(attrTexSize)) + attrTexOffsets;\n   mat4 instMVMat=instMat;\n   instMVMat[3][0]*=scale;\n\n   texPos=attrTexPos;\n\n   vec4 vert=vec4( vPosition.x*(attrTexSize.x/attrTexSize.y)*scale,vPosition.y*scale,vPosition.z*scale, 1. );\n\n   mat4 mvMatrix=viewMatrix * modelMatrix * instMVMat;\n\n   #ifndef BILLBOARD\n       gl_Position = projMatrix * mvMatrix * vert;\n   #endif\n}\n"};const n=t.inTrigger("Render"),v=t.inString("Text","cables"),a=t.inValueFloat("Scale",1),g=t.inString("Font","Arial"),C=t.inValueSelect("align",["left","center","right"],"center"),r=t.inValueSelect("vertical align",["Top","Middle","Bottom"],"Middle"),L=t.inValueFloat("Line Height",1),M=t.inValueFloat("Letter Spacing"),o=t.inSwitch("filter",["nearest","linear","mipmap"],"mipmap"),l=t.inSwitch("Anisotropic",[0,1,2,4,8,16],0),s=t.inTexture("Texture Color"),i=t.inTexture("Texture Mask"),c=t.outTrigger("Next"),T=t.outTexture("texture"),S=t.outNumber("Total Lines",0),A=t.outNumber("Width",0),u=t.outValue("Font Available",0);const b=t.patch.cgl;t.setPortGroup("Masking",[s,i]);const d=1024;let p=false;let f=true;C.onChange=v.onChange=L.onChange=h;function h(){f=true}let x=null;CABLES.OpTextureMeshCanvas={};let m=0;const O=null;let B=null;let E=true;let w=true;l.onChange=o.onChange=()=>{F().texture=null;w=true};i.onChange=s.onChange=function(){G.toggleDefine("DO_MULTEX",s.get());G.toggleDefine("DO_MULTEX_MASK",i.get())};T.set(null);g.onChange=function(){w=true;E=true;y()};t.patch.on("fontLoaded",e=>{if(e==g.get()){w=true;E=true}});function y(){const e=p;try{p=document.fonts.check('20px "'+g.get()+'"')}catch(e){t.error(e)}if(!e&&p){u.set(true);w=true;E=true}if(!p)setTimeout(y,250)}r.onChange=function(){if(r.get()=="Middle")m=0;else if(r.get()=="Top")m=1;else if(r.get()=="Bottom")m=2};function F(){x=""+g.get();if(CABLES.OpTextureMeshCanvas.hasOwnProperty(x))return CABLES.OpTextureMeshCanvas[x];const e=document.createElement("canvas");e.dataset.font=g.get();e.id="texturetext_"+CABLES.generateUUID();e.style.display="none";const t=document.getElementsByTagName("body")[0];t.appendChild(e);const n=e.getContext("2d");CABLES.OpTextureMeshCanvas[x]={ctx:n,canvas:e,chars:{},characters:"",fontSize:320};return CABLES.OpTextureMeshCanvas[x]}t.onDelete=function(){if(x&&CABLES.OpTextureMeshCanvas[x])CABLES.OpTextureMeshCanvas[x].canvas.remove()};var G=new CGL.Shader(b,"TextMesh");G.setSource(e.textmesh_vert,e.textmesh_frag);const I=new CGL.Uniform(G,"t","tex",0);const P=new CGL.Uniform(G,"t","texMul",1);const _=new CGL.Uniform(G,"t","texMulMask",2);const N=new CGL.Uniform(G,"f","scale",a);const V=t.inValueSlider("r",1),U=t.inValueSlider("g",1),R=t.inValueSlider("b",1),H=t.inValueSlider("a",1),D=new CGL.Uniform(G,"f","r",V),k=new CGL.Uniform(G,"f","g",U),j=new CGL.Uniform(G,"f","b",R),z=new CGL.Uniform(G,"f","a",H);V.setUiAttribs({colorPick:true});t.setPortGroup("Display",[a,g]);t.setPortGroup("Alignment",[C,r]);t.setPortGroup("Color",[V,U,R,H]);let W=0;const X=vec3.create();let K=-1;let Z=false;n.onTriggered=function(){if(f){Y();f=false}const e=F();if(e.lastChange!=K){E=true;K=e.lastChange}if(w)J();if(E)Y();if(B&&B.numInstances>0){b.pushBlendMode(CGL.BLEND_NORMAL,true);b.setShader(G);b.setTexture(0,T.get().tex);const t=s.get();if(t)b.setTexture(1,t.tex);const n=i.get();if(n)b.setTexture(2,n.tex);if(m===2)vec3.set(X,0,W,0);else if(m===1)vec3.set(X,0,0,0);else if(m===0)vec3.set(X,0,W/2,0);X[1]-=L.get();b.pushModelMatrix();mat4.translate(b.mMatrix,b.mMatrix,X);if(!Z)B.render(b.getShader());b.popModelMatrix();b.setTexture(0,null);b.setPreviousShader();b.popBlendMode()}c.trigger()};M.onChange=function(){E=true};function Y(){const e=String(v.get()+"");if(!T.get())return;const r=F();if(!r.geom){r.geom=new CGL.Geometry("textmesh");r.geom.vertices=[1,1,0,0,1,0,1,0,0,0,0,0];r.geom.texCoords=new Float32Array([1,1,0,1,1,0,0,0]);r.geom.verticesIndices=[0,1,2,2,1,3]}if(!B)B=new CGL.Mesh(b,r.geom);const s=e.split("\n");S.set(s.length);const i=[];const o=[];const l=[];const c=[];let u=0;w=false;const g=mat4.create();let d=0;for(let a=0;a<s.length;a++){const f=s[a];const h=f.length;let e=0;let t=0;let n=0;for(var p=0;p<h;p++){const x=f.substring(p,p+1);const m=r.chars[String(x)];if(m){n+=m.texCoordWidth/m.texCoordHeight;n+=M.get()}}n-=M.get();W=0;if(C.get()=="left")t=0;else if(C.get()=="right")t=n;else if(C.get()=="center")t=n/2;W=(a+1)*L.get();for(var p=0;p<h;p++){const x=f.substring(p,p+1);const m=r.chars[String(x)];if(!m){w=true;return}else{c.push(e/n*.99+.005,(1-a/(s.length-1))*.99+.005);o.push(m.texCoordX,1-m.texCoordY-m.texCoordHeight);l.push(m.texCoordWidth,m.texCoordHeight);mat4.identity(g);mat4.translate(g,g,[e-t,0-a*L.get(),0]);e+=m.texCoordWidth/m.texCoordHeight+M.get();d=Math.max(d,e-t);i.push(Array.prototype.slice.call(g));u++}}}const t=[].concat.apply([],i);Z=false;if(t.length==0)Z=true;B.numInstances=t.length/16;if(B.numInstances==0){Z=true;return}A.set(d*a.get());B.setAttribute("instMat",new Float32Array(t),16,{instanced:true});B.setAttribute("attrTexOffsets",new Float32Array(o),2,{instanced:true});B.setAttribute("attrTexSize",new Float32Array(l),2,{instanced:true});B.setAttribute("attrTexPos",new Float32Array(c),2,{instanced:true});E=false;if(w)J()}function q(e,t){const n=F();if(!t)n.chars={};const a=n.ctx;a.font=e+"px "+g.get();a.textAlign="left";var r=0,s=0;let i=0;const o=e*1.4;const l={fits:true};for(var s=0;s<n.characters.length;s++){const c=String(n.characters.substring(s,s+1));const u=a.measureText(c).width;if(i+u>=d){r+=o+2;i=0}if(!t){n.chars[c]={str:c,texCoordX:i/d,texCoordY:r/d,texCoordWidth:u/d,texCoordHeight:o/d};a.fillText(c,i,r+e)}i+=u+12}if(r>d-o){l.fits=false}l.spaceLeft=d-r;return l}function J(){let e=CGL.Texture.FILTER_LINEAR;if(o.get()=="nearest")e=CGL.Texture.FILTER_NEAREST;if(o.get()=="mipmap")e=CGL.Texture.FILTER_MIPMAP;const t=F();let n=String(v.get());if(n==null||n==undefined)n="";for(let e=0;e<n.length;e++){const i=n.substring(e,e+1);if(t.characters.indexOf(i)==-1){t.characters+=i;w=true}}const a=t.ctx;t.canvas.width=t.canvas.height=d;if(!t.texture)t.texture=CGL.Texture.createFromImage(b,t.canvas,{filter:e,anisotropic:parseFloat(l.get())});t.texture.setSize(d,d);a.fillStyle="transparent";a.clearRect(0,0,d,d);a.fillStyle="rgba(255,255,255,255)";let r=t.fontSize+40;let s=q(r,true);while(!s.fits){r-=5;s=q(r,true)}q(r,false);a.restore();t.texture.initTexture(t.canvas,e);t.texture.unpackAlpha=true;T.set(t.texture);t.lastChange=CABLES.now();E=true;w=false}};Ops.Gl.Meshes.TextMesh_v2.prototype=new CABLES.Op;CABLES.OPS["2390f6b3-2122-412e-8c8d-5c2f574e8bd1"]={f:Ops.Gl.Meshes.TextMesh_v2,objName:"Ops.Gl.Meshes.TextMesh_v2"};window.addEventListener("load",function(e){CABLES.jsLoaded=new Event("CABLES.jsLoaded");document.dispatchEvent(CABLES.jsLoaded)});
